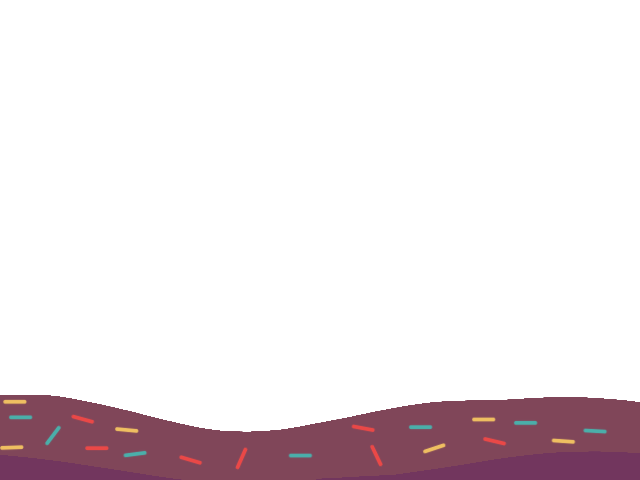
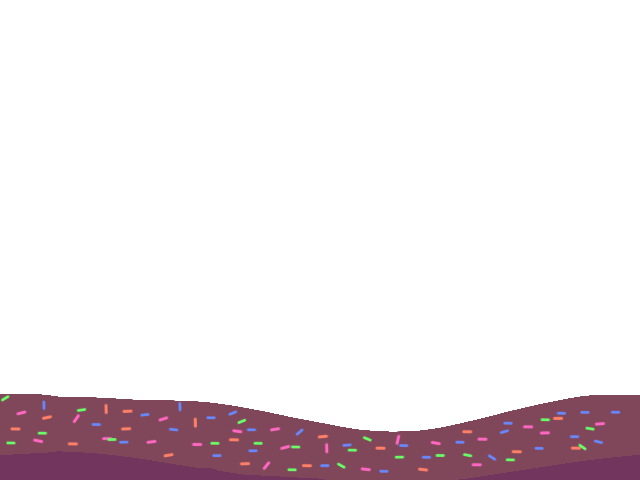
changed out floor sprite, imported ice cream sprites

Changed region(s): [[0.0, 0.8125, 1.0, 1.0]]

diff --git a/src/scenes/Play.js b/src/scenes/Play.js
@@ -8,6 +8,9 @@ class Play extends Phaser.Scene {
         this.load.image('cone', './assets/cone.png');
         this.load.image('spaceship', './assets/spaceship.png');
         this.load.image('starfield', './assets/starfield.png');
+        this.load.image('icecream1', './assets/icecream1.png');
+        this.load.image('icecream2', './assets/icecream2.png');
+        this.load.image('icecream3', './assets/icecream3.png');
 
         //load background art
         this.load.image('sky', './assets/sky.png');
@@ -26,19 +29,19 @@ class Play extends Phaser.Scene {
         this.floor = this.add.tileSprite(0, 0, 640, 480, 'floor').setOrigin(0, 0);
         
         // white borders
-        this.add.rectangle(0, 0, game.config.width, borderUISize, 0xFFFFFF).setOrigin(0, 0);
-        this.add.rectangle(0, game.config.height - borderUISize, game.config.width, borderUISize, 0xFFFFFF).setOrigin(0, 0);
-        this.add.rectangle(0, 0, borderUISize, game.config.height, 0xFFFFFF).setOrigin(0, 0);
-        this.add.rectangle(game.config.width - borderUISize, 0, borderUISize, game.config.height, 0xFFFFFF).setOrigin(0, 0);
+        //this.add.rectangle(0, 0, game.config.width, borderUISize, 0xFFFFFF).setOrigin(0, 0);
+        //this.add.rectangle(0, game.config.height - borderUISize, game.config.width, borderUISize, 0xFFFFFF).setOrigin(0, 0);
+        //this.add.rectangle(0, 0, borderUISize, game.config.height, 0xFFFFFF).setOrigin(0, 0);
+        //this.add.rectangle(game.config.width - borderUISize, 0, borderUISize, game.config.height, 0xFFFFFF).setOrigin(0, 0);
 
         //add rocket (p1)
         this.p1Rocket = new Rocket(this, game.config.width/2, game.config.height - borderUISize - borderPadding,
-        'cone').setOrigin(0.5, 0.5);      
+        'cone').setOrigin(0.5, 0);      
 
         // add spaceships (x3)
-        this.ship01 = new Spaceship(this, game.config.width + borderUISize*6, borderUISize*4, 'spaceship', 0, 30).setOrigin(0, 0);
-        this.ship02 = new Spaceship(this, game.config.width + borderUISize*3, borderUISize*5 + borderPadding*2, 'spaceship', 0, 20).setOrigin(0, 0);
-        this.ship03 = new Spaceship(this, game.config.width, borderUISize*6 + borderPadding*4, 'spaceship', 0, 10).setOrigin(0, 0);   
+        this.ship01 = new Spaceship(this, game.config.width + borderUISize*6, borderUISize*4, 'icecream3', 0, 30).setOrigin(0, 0);
+        this.ship02 = new Spaceship(this, game.config.width + borderUISize*3, borderUISize*5 + borderPadding*2, 'icecream2', 0, 20).setOrigin(0, 0);
+        this.ship03 = new Spaceship(this, game.config.width, borderUISize*6 + borderPadding*4, 'icecream1', 0, 10).setOrigin(0, 0);   
 
          // define keys
          keyF = this.input.keyboard.addKey(Phaser.Input.Keyboard.KeyCodes.F);
